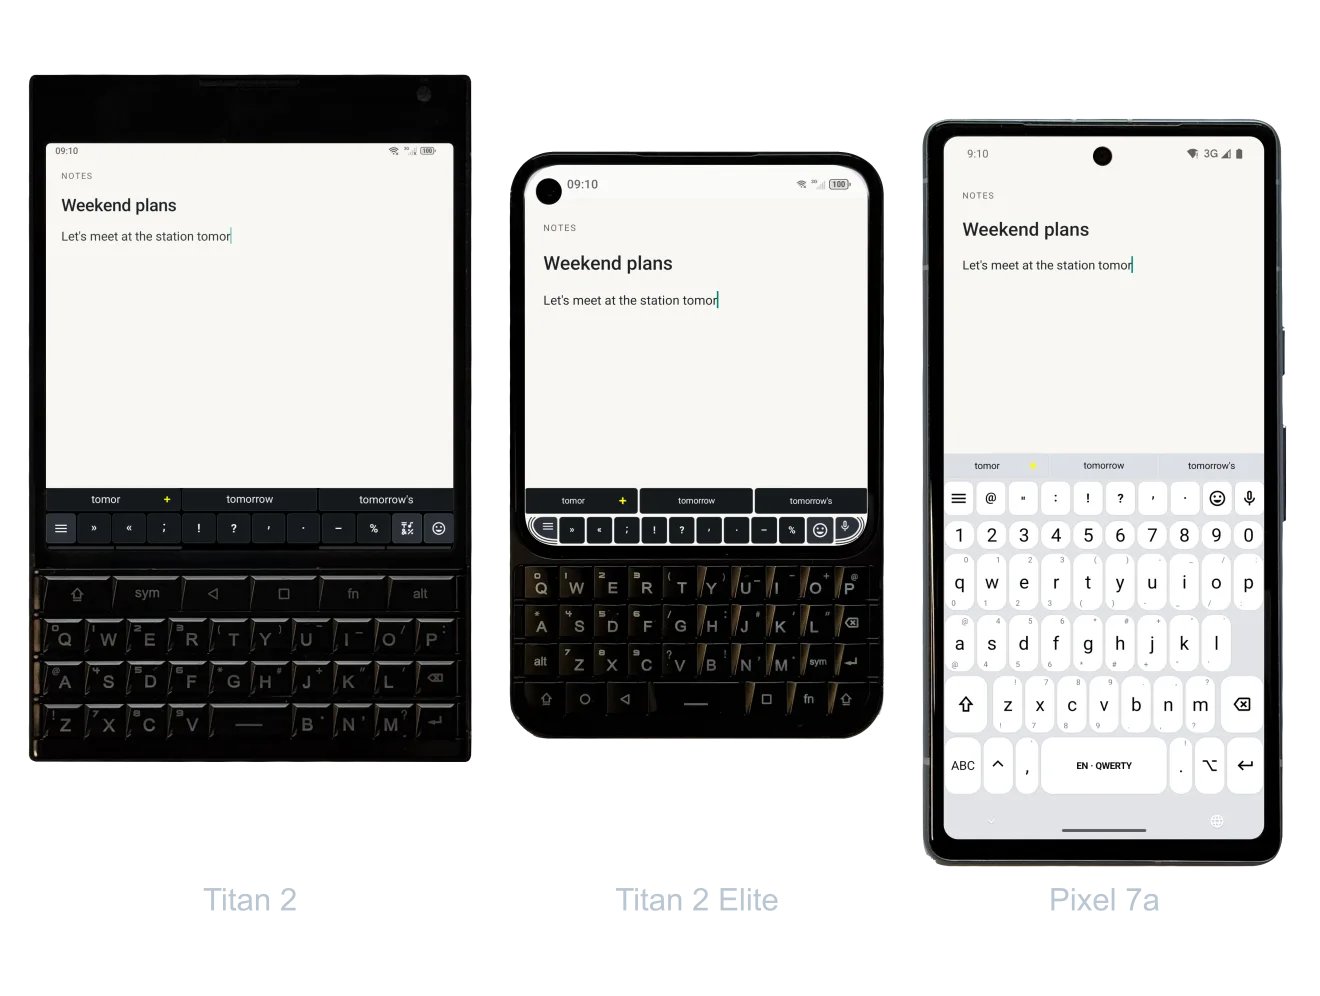
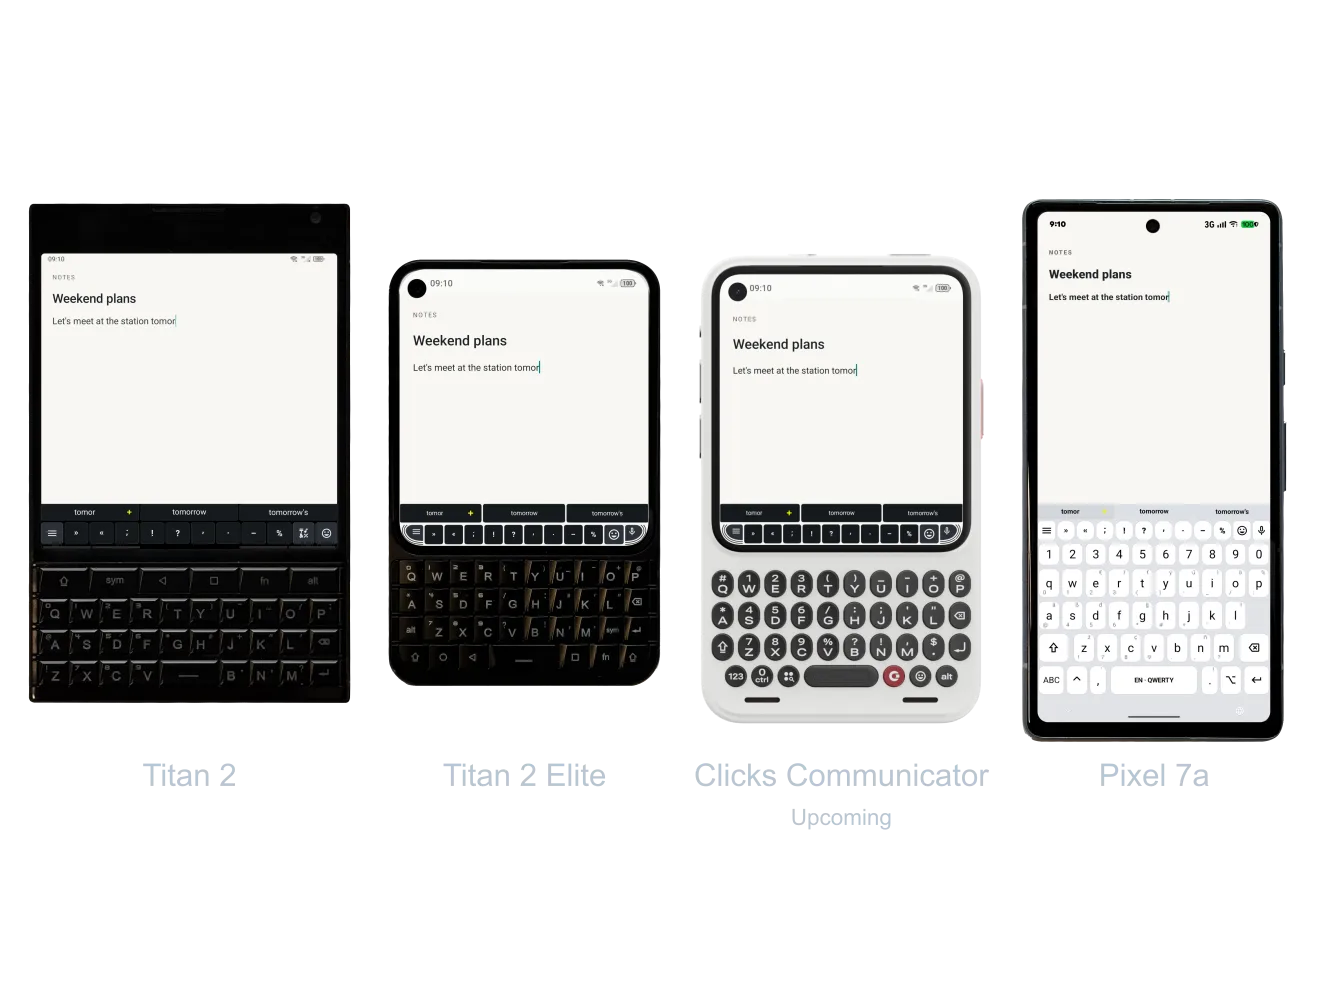
feat: show upcoming Clicks Communicator alongside Plektra devices

diff --git a/index.html b/index.html
@@ -271,6 +271,7 @@
       .devices div:nth-child(n + 3) { border-top: 1px solid var(--line); margin-top: 26px; }
       .devices h3 { font-size: 1.9rem; }
       .devices p { margin: 8px 0 0; color: var(--muted); font-size: .98rem; }
+      .devices .device-status { color: var(--accent-text); font-weight: 600; }
       .devices-note { margin-top: 36px; color: var(--muted); }
 
       /* Build */
@@ -404,7 +405,7 @@
         .support-link img { width: 100%; max-width: 180px; }
         .switch { grid-column: 2; grid-row: 2; }
         .grid, .both-cases, .devices { grid-template-columns: 1fr; }
-        .devices div + div { padding-left: 0; border-left: 0; border-top: 1px solid var(--line); margin-top: 26px; }
+        .devices div:nth-child(even), .devices div + div { padding-left: 0; border-left: 0; border-top: 1px solid var(--line); margin-top: 26px; }
         .channel { padding: 26px; }
         section { padding: 76px 0; }
         .hero { padding-top: 56px; }
@@ -493,8 +494,8 @@
           <p class="hero-meta" data-hero-meta data-reveal>Stable is for everyday use. Nightly gets new features first.</p>
         </div>
         <div class="hero-shot" data-reveal>
-          <img src="/plektra/assets/shots/stable/01-devices.webp?v=3e86c067e1b8" data-shot="01-devices" width="1320" height="996"
-               alt="Plektra on a Unihertz Titan 2, a Titan 2 Elite and a Pixel 7a, each suggesting “tomorrow” in a note" data-shot-version="3e86c067e1b8">
+          <img src="/plektra/assets/shots/stable/01-devices.webp?v=113f2168fb16" data-shot="01-devices" width="1320" height="996"
+               alt="Plektra on a Titan 2, Titan 2 Elite, upcoming Clicks Communicator and Pixel 7a, each suggesting “tomorrow” in a note" data-shot-version="113f2168fb16">
         </div>
       </div>
 
@@ -730,6 +731,12 @@
             <div data-reveal><h3>Titan 2 Elite</h3><p>Release-tested. Device-specific keyboard layouts and display geometry.</p></div>
             <div data-reveal><h3>Pixel 7a + Clicks</h3><p>Directly tested with the Clicks Power Keyboard.</p></div>
             <div data-reveal><h3>Galaxy Z Fold6</h3><p>Directly tested for software keyboard use and folding behaviour, with Clicks Power Keyboard support. Further foldable improvements are planned.</p></div>
+            <div data-reveal>
+              <h3>Clicks Communicator</h3>
+              <p class="device-status">Upcoming</p>
+              <p>Plektra support planned.</p>
+              <p><a href="https://www.clicksphone.com/communicator">Explore the Communicator</a></p>
+            </div>
           </div>
           <p class="devices-note">Community-supported devices include the BlackBerry KEY2, Minimal Phone MP01 and BlackBerry Q25 (Zinwa mod), alongside other Clicks keyboard models. See the <a href="https://github.com/pkb-rocks/plektra/blob/main/docs/devices.md">device support ranking</a>.</p>
         </div>
